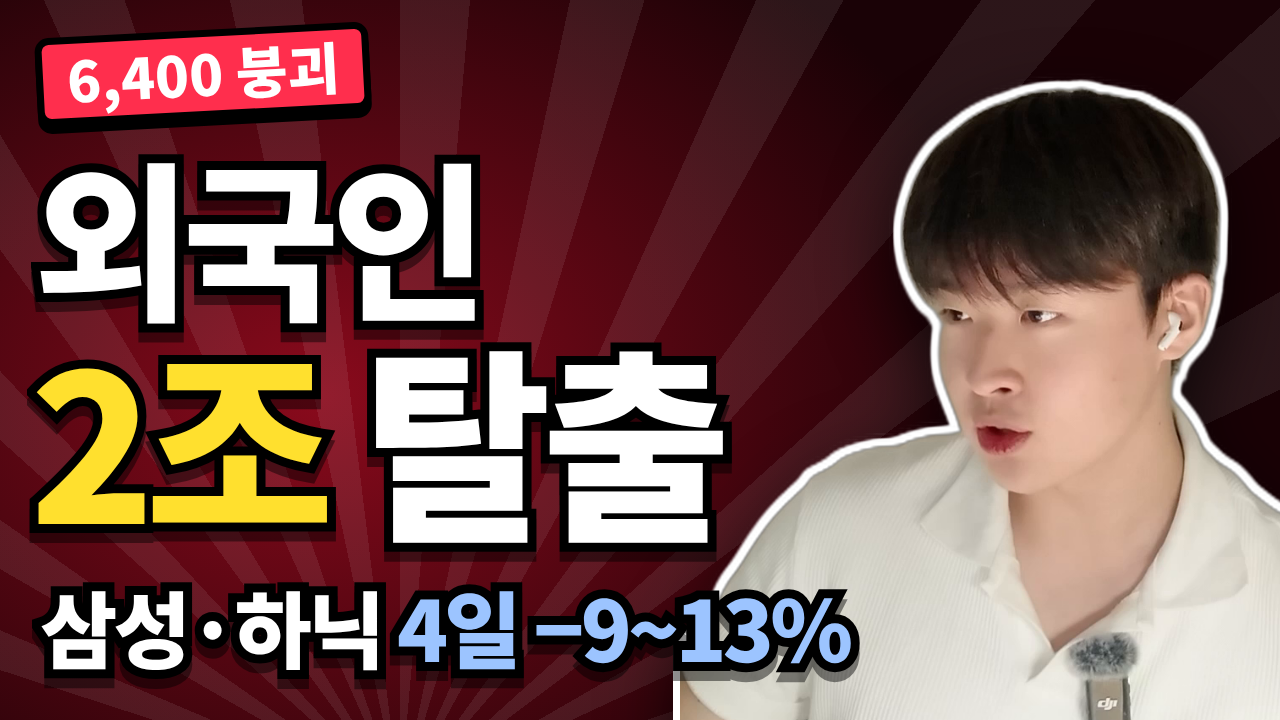
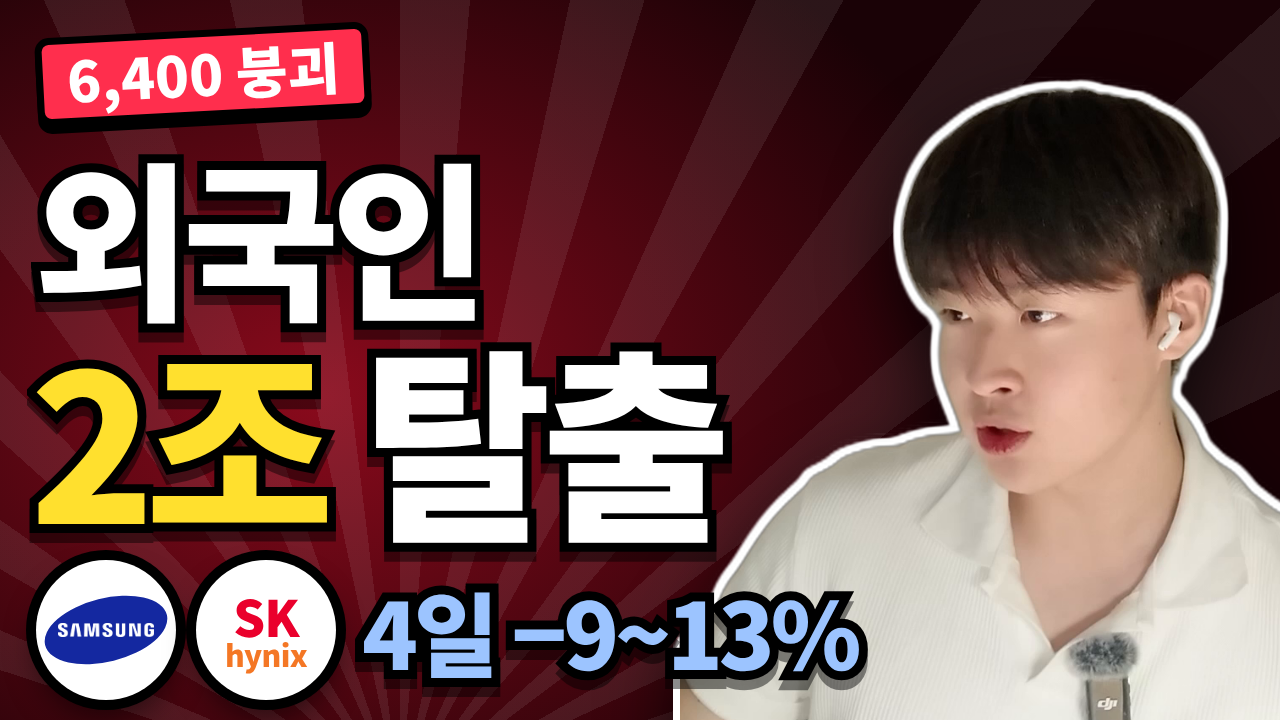
썸네일 D에 삼성·SK하이닉스 로고, D용 제목 5개
Claude-Session: https://claude.ai/code/session_01Qa4AThrmZnR4sks4uCpjYA

Changed region(s): [[0.0, 0.7639, 0.6875, 1.0]]

diff --git a/youtube/1012/thumbnail/thumb2.html b/youtube/1012/thumbnail/thumb2.html
@@ -16,6 +16,7 @@ body{background:#000}
 .person{position:absolute;filter:drop-shadow(7px 0 0 #fff) drop-shadow(-7px 0 0 #fff) drop-shadow(0 7px 0 #fff) drop-shadow(0 -7px 0 #fff) drop-shadow(0 26px 34px rgba(0,0,0,.7))}
 .tag{position:absolute;font-weight:900;color:#000;background:var(--yel);border:7px solid #000;border-radius:14px;padding:4px 22px 8px;box-shadow:0 8px 0 #000;white-space:nowrap;line-height:1.1}
 .alert{position:absolute;font-weight:900;color:#fff;background:var(--red);border:7px solid #000;border-radius:14px;padding:4px 24px 8px;box-shadow:0 8px 0 #000;white-space:nowrap;line-height:1.1}
+.coin{position:absolute;border-radius:50%;box-shadow:0 0 0 10px #000,0 18px 30px rgba(0,0,0,.55);display:flex;align-items:center;justify-content:center;overflow:hidden}
 .burst{position:absolute;left:-900px;top:-500px;width:2600px;height:2600px;background:repeating-conic-gradient(from 0deg at 50% 50%,rgba(255,255,255,.08) 0 5deg,rgba(255,255,255,0) 5deg 12deg)}
 </style>
 
@@ -37,7 +38,16 @@ body{background:#000}
   <div class="alert" style="left:36px;top:30px;font-size:56px;transform:rotate(-3deg)">6,400 붕괴</div>
   <div class="t" style="left:34px;top:150px;font-size:170px">외국인</div>
   <div class="t" style="left:30px;top:335px;font-size:205px"><span class="y">2조</span> 탈출</div>
-  <div class="t" style="left:40px;top:585px;font-size:84px">삼성·하닉 <span class="b">4일 −9~13%</span></div>
+  <!-- 삼성(실제 로고) · SK하이닉스(로고 파일이 없어 글자 칩) -->
+  <div class="coin" style="left:36px;top:560px;width:140px;height:140px;background:#fff">
+    <svg width="132" height="132" viewBox="0 0 400 400" style="position:absolute"><ellipse cx="200" cy="200" rx="190" ry="96" transform="rotate(-14 200 200)" fill="#1428A0"/></svg>
+    <img src="../../logos/samsung_white.png" style="position:relative;width:96px">
+  </div>
+  <div class="coin" style="left:196px;top:560px;width:140px;height:140px;background:#fff;flex-direction:column;line-height:.95">
+    <span style="font-weight:900;font-size:50px;color:#ea002c;letter-spacing:-.02em">SK</span>
+    <span style="font-weight:900;font-size:30px;color:#f47725;letter-spacing:-.02em">hynix</span>
+  </div>
+  <div class="t" style="left:362px;top:585px;font-size:92px"><span class="b">4일 −9~13%</span></div>
 </section>
 
 <!-- E: 아이폰이 LG이노텍을 — 3D 아이폰 장면 배경 -->

diff --git a/youtube/1012/upload.md b/youtube/1012/upload.md
@@ -1,5 +1,12 @@
 # 10/12 증시 영상 업로드 정보
 
+## 썸네일 D(외국인 2조 탈출 · 삼성·SK하이닉스 로고)용 제목 ← 최종 선택
+1. **외국인 2조 들고 나갔다… 삼성·하이닉스 4일 만에 −13%, 코스피 6,400 붕괴**
+2. **수출은 역대 최대인데 외국인은 2조 팔았다, 삼성·하이닉스만 맞은 이유**
+3. **삼성·하이닉스 4일 −13%, 외국인이 반도체만 판 진짜 이유**
+4. **코스피 6,400 붕괴, 외국인 2조 탈출… 반도체 수출 +170%인데 왜?**
+5. **외국인 2조 매도, 삼성 25만·하이닉스 160만 깨졌다 | 10월 12일 증시**
+
 ## 제목 (썸네일과 짝)
 1. **수출 역대 최대인데 코스피 폭락? 외국인이 2조 던진 진짜 이유** ← 썸네일 C (추천)
 2. **외국인 2조 탈출, 코스피 6,400 붕괴… 삼성·하이닉스 4일 만에 −13%** ← 썸네일 D
